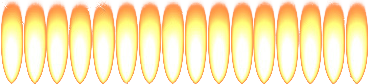
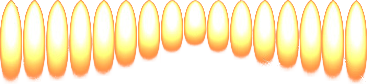
dev/fix: add anim to exausts

diff --git a/src/js/loaders/animationsloader.js b/src/js/loaders/animationsloader.js
@@ -89,8 +89,8 @@ export function createAnimation() {
     this.exhaust2.angle = 90;
     this.exhaust1.animations.add('exh');
     this.exhaust2.animations.add('exh');
-    this.exhaust1.animations.play('exh', 5, true);
-    this.exhaust2.animations.play('exh', 5, true);
+    this.exhaust1.animations.play('exh', 25, true);
+    this.exhaust2.animations.play('exh', 25, true);
 
 
 
